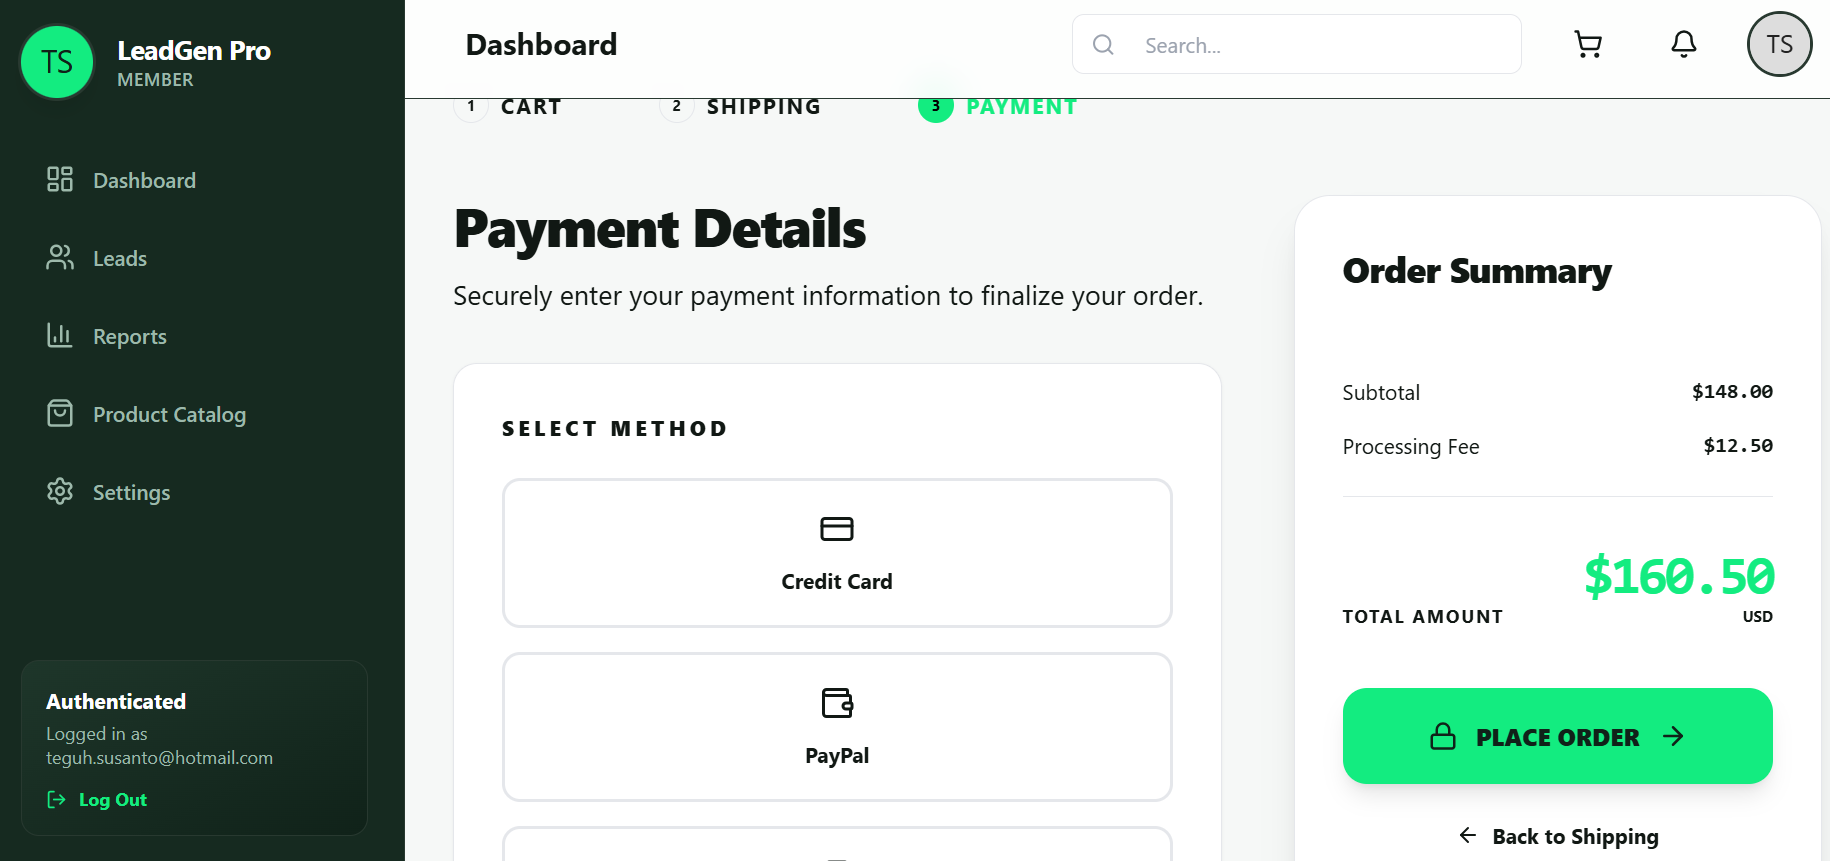
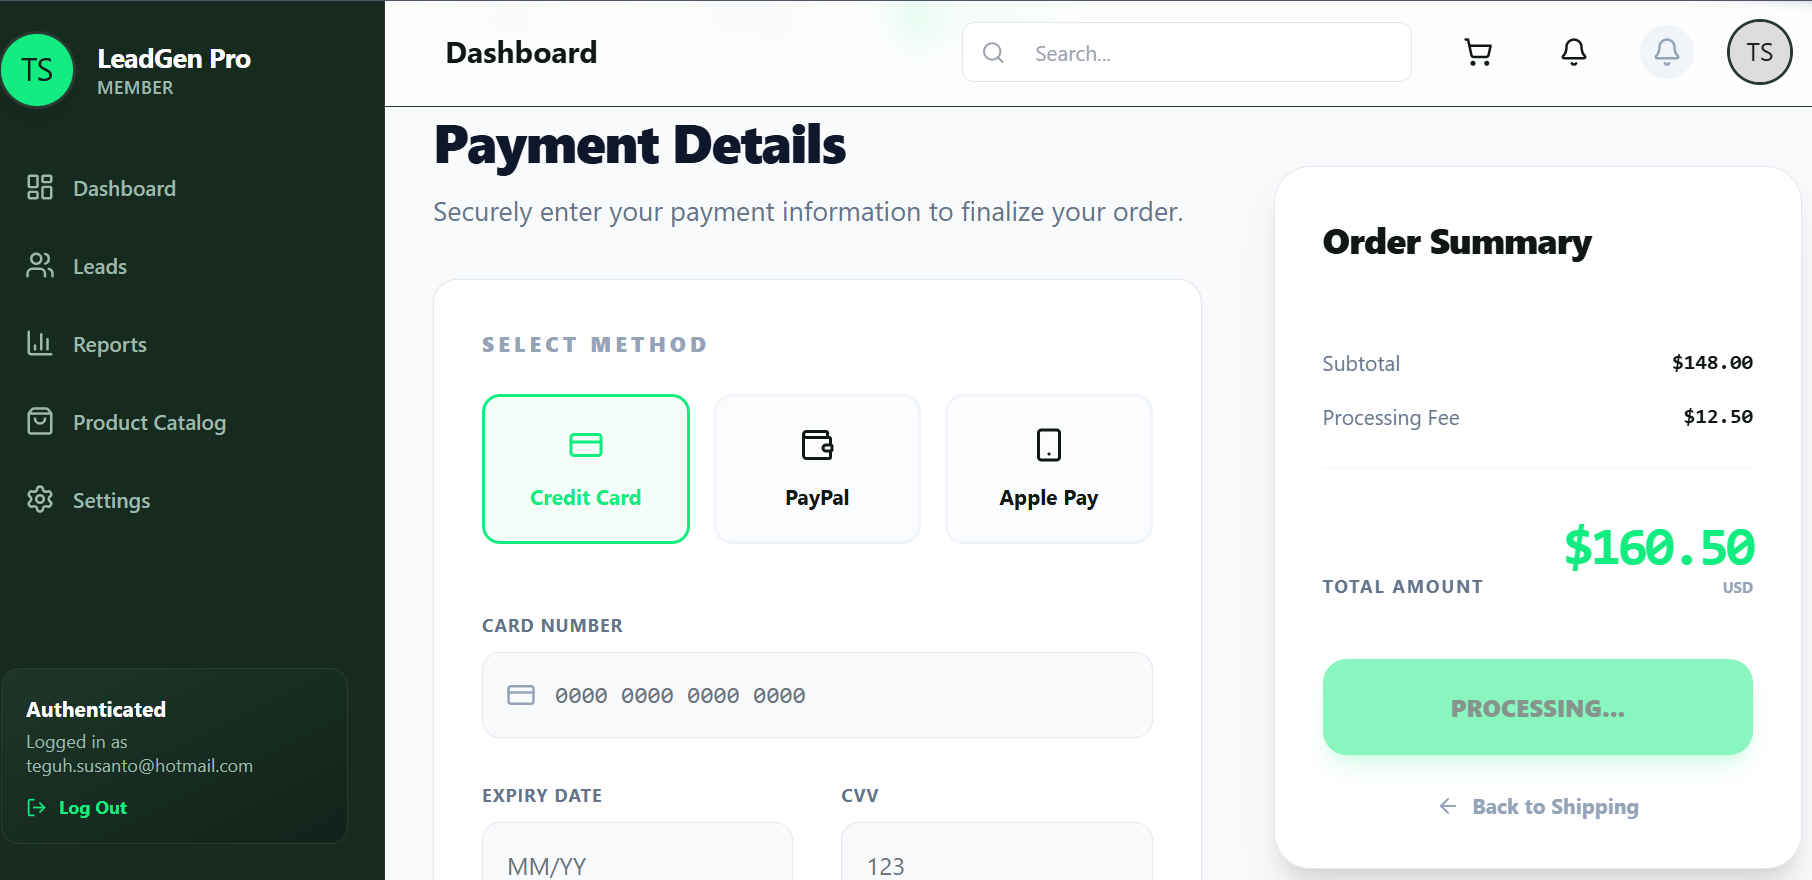
first commit

diff --git a/resources/js/Components/NotificationBell.jsx b/resources/js/Components/NotificationBell.jsx
@@ -1,0 +1,71 @@
+import React, { useState } from 'react';
+import { usePage, Link } from '@inertiajs/react';
+import { Bell, Package, CheckCircle, Info } from 'lucide-react';
+
+export default function NotificationBell() {
+    const { auth } = usePage().props;
+    const [isOpen, setIsOpen] = useState(false);
+    const notifications = auth.notifications || [];
+
+    return (
+        <div className="relative">
+            {/* Bell Icon */}
+            <button 
+                onClick={() => setIsOpen(!isOpen)}
+                className="relative p-2 text-slate-400 hover:text-[#13ec80] transition-colors bg-slate-100 dark:bg-[#1e2e25] rounded-full"
+            >
+                <Bell size={20} />
+                {notifications.length > 0 && (
+                    <span className="absolute top-0 right-0 flex h-4 w-4">
+                        <span className="animate-ping absolute inline-flex h-full w-full rounded-full bg-red-400 opacity-75"></span>
+                        <span className="relative inline-flex rounded-full h-4 w-4 bg-red-500 text-[10px] text-white font-bold items-center justify-center">
+                            {notifications.length}
+                        </span>
+                    </span>
+                )}
+            </button>
+
+            {/* Dropdown Menu */}
+            {isOpen && (
+                <>
+                    <div className="fixed inset-0 z-10" onClick={() => setIsOpen(false)}></div>
+                    <div className="absolute right-0 mt-3 w-80 bg-white dark:bg-[#111814] border border-slate-200 dark:border-[#1e2e25] rounded-2xl shadow-2xl z-20 overflow-hidden">
+                        <div className="p-4 border-b border-slate-100 dark:border-[#1e2e25] flex justify-between items-center">
+                            <h3 className="font-black text-xs uppercase tracking-widest">Notifications</h3>
+                            {notifications.length > 0 && (
+                                <button className="text-[10px] text-[#13ec80] font-bold hover:underline">Mark all as read</button>
+                            )}
+                        </div>
+
+                        <div className="max-h-96 overflow-y-auto">
+                            {notifications.length > 0 ? (
+                                notifications.map((n) => (
+                                    <div key={n.id} className="p-4 border-b border-slate-50 dark:border-[#0a120e] hover:bg-slate-50 dark:hover:bg-[#1e2e25] transition-colors cursor-pointer">
+                                        <div className="flex gap-3">
+                                            <div className="mt-1 text-[#13ec80]">
+                                                <CheckCircle size={16} />
+                                            </div>
+                                            <div>
+                                                <p className="text-sm text-slate-900 dark:text-white font-bold">{n.data.message}</p>
+                                                <p className="text-xs text-slate-400 mt-1">Just now</p>
+                                            </div>
+                                        </div>
+                                    </div>
+                                ))
+                            ) : (
+                                <div className="p-8 text-center text-slate-400">
+                                    <Info className="mx-auto mb-2 opacity-20" size={32} />
+                                    <p className="text-sm italic">No new notifications</p>
+                                </div>
+                            )}
+                        </div>
+                        
+                        <Link href="/notifications" className="block p-3 text-center text-xs font-bold bg-slate-50 dark:bg-[#0a120e] text-slate-500 hover:text-[#13ec80] transition-colors">
+                            VIEW ALL ACTIVITY
+                        </Link>
+                    </div>
+                </>
+            )}
+        </div>
+    );
+}

diff --git a/resources/js/Layouts/AuthenticatedLayout.jsx b/resources/js/Layouts/AuthenticatedLayout.jsx
@@ -1,5 +1,7 @@
 import React, { useState } from 'react';
 import { Link, usePage } from '@inertiajs/react';
+import Notification from '@/Components/Notification';
+import NotificationBell from '@/Components/NotificationBell';
 import { Toaster } from 'react-hot-toast';
 import { 
     LayoutDashboard, 
@@ -92,28 +94,19 @@ export default function AuthenticatedLayout({ children }) {
                         <button className="hidden md:flex items-center justify-center size-10 rounded-full hover:bg-gray-200 dark:hover:bg-[#283930] transition-colors text-[#111814] dark:text-white">
                             <Bell size={20} />
                         </button>
+                        <NotificationBell />
 
                         <div className="size-10 rounded-full bg-cover bg-center ring-2 ring-[#283930] overflow-hidden">
                              <img src={`https://ui-avatars.com/api/?name=${user?.name}`} alt="Profile" />
                         </div>
                     </div>
                 </header>
-
-                <div className="flex-1">
-                    {children}
-                    <Toaster
-                        position="top-right"
-                        reverseOrder={false}
-                        toastOptions={{
-                            // Default options for all toasts
-                            style: {
-                            background: '#facc15', // Tailwind yellow-400 hex
-                            color: '#000',         // black text for contrast
-                            },
-                        }}
-                        />
-
+                <div className="min-h-screen">
+                    <Notification />
+                    <main>{children}</main>
                 </div>
+
+                
             </main>
         </div>
     );

diff --git a/resources/js/Components/Notification.jsx b/resources/js/Components/Notification.jsx
@@ -1,0 +1,15 @@
+import { useEffect } from 'react';
+import { usePage } from '@inertiajs/react';
+import { Toaster, toast } from 'sonner';
+
+export default function Notification() {
+    const { flash = {} } = usePage().props;
+
+useEffect(() => {
+  if (flash.message) {
+    toast[flash.type || 'success'](flash.message);
+  }
+}, [flash]);
+
+    return <Toaster position="top-right" richColors />;
+}

diff --git a/app/Notifications/OrderCompletedNotification.php b/app/Notifications/OrderCompletedNotification.php
@@ -1,0 +1,47 @@
+<?php
+
+namespace App\Notifications;
+
+use Illuminate\Bus\Queueable;
+use Illuminate\Notifications\Messages\MailMessage;
+use Illuminate\Notifications\Notification;
+
+class OrderCompletedNotification extends Notification
+{
+    use Queueable;
+
+    /**
+     * Get the notification's delivery channels.
+     */
+    public function via(object $notifiable): array
+    {
+        // Added 'database' so it shows up in your React Bell component
+        return ['mail', 'database'];
+    }
+
+    /**
+     * Get the mail representation of the notification.
+     */
+    public function toMail(object $notifiable): MailMessage
+    {
+        return (new MailMessage)
+            ->subject('Order Confirmation - LeadJourney')
+            ->greeting('Hello ' . $notifiable->name . '!')
+            ->line('Your order has been successfully placed and is being processed.')
+            ->action('View Order Status', url('/dashboard'))
+            ->line('Thank you for shopping with LeadJourney!');
+    }
+
+    /**
+     * This data is saved in the 'data' column of your 'notifications' table.
+     * Your React NotificationBell component reads this.
+     */
+    public function toArray(object $notifiable): array
+    {
+        return [
+            'message' => 'Your order has been completed successfully!',
+            'type' => 'order_success',
+            'action_url' => '/dashboard',
+        ];
+    }
+}

diff --git a/database/migrations/2026_01_06_084738_create_notifications_table.php b/database/migrations/2026_01_06_084738_create_notifications_table.php
@@ -1,0 +1,31 @@
+<?php
+
+use Illuminate\Database\Migrations\Migration;
+use Illuminate\Database\Schema\Blueprint;
+use Illuminate\Support\Facades\Schema;
+
+return new class extends Migration
+{
+    /**
+     * Run the migrations.
+     */
+    public function up(): void
+    {
+        Schema::create('notifications', function (Blueprint $table) {
+            $table->uuid('id')->primary();
+            $table->string('type');
+            $table->morphs('notifiable');
+            $table->text('data');
+            $table->timestamp('read_at')->nullable();
+            $table->timestamps();
+        });
+    }
+
+    /**
+     * Reverse the migrations.
+     */
+    public function down(): void
+    {
+        Schema::dropIfExists('notifications');
+    }
+};

diff --git a/app/Http/Controllers/CartController.php b/app/Http/Controllers/CartController.php
@@ -11,6 +11,7 @@ use Illuminate\Support\Facades\Cache;
 use App\Models\Order;
 use App\Models\OrderItem;
 use Illuminate\Support\Facades\DB;
+use App\Notifications\OrderCompletedNotification;
 
 class CartController extends Controller
 {
@@ -18,6 +19,8 @@ class CartController extends Controller
     {
         Order::where(['user_id' => auth()->id(),'status' => 'pending'])
                     ->update(['status' => 'completed']);
+
+        auth()->user()->notify(new OrderCompletedNotification());
         
         return Inertia::render('Shipping/OrderComplete', [
             'message' => 'Thank you for your purchase! Your order has been completed successfully.',

diff --git a/app/Http/Middleware/HandleInertiaRequests.php b/app/Http/Middleware/HandleInertiaRequests.php
@@ -33,7 +33,8 @@ class HandleInertiaRequests extends Middleware
             ...parent::share($request),
             'auth' => [
                 'user' => $request->user(),
-            ],
+                'notifications' => $request->user()?->unreadNotifications ?? [],
+            ]
         ];
     }
 }
